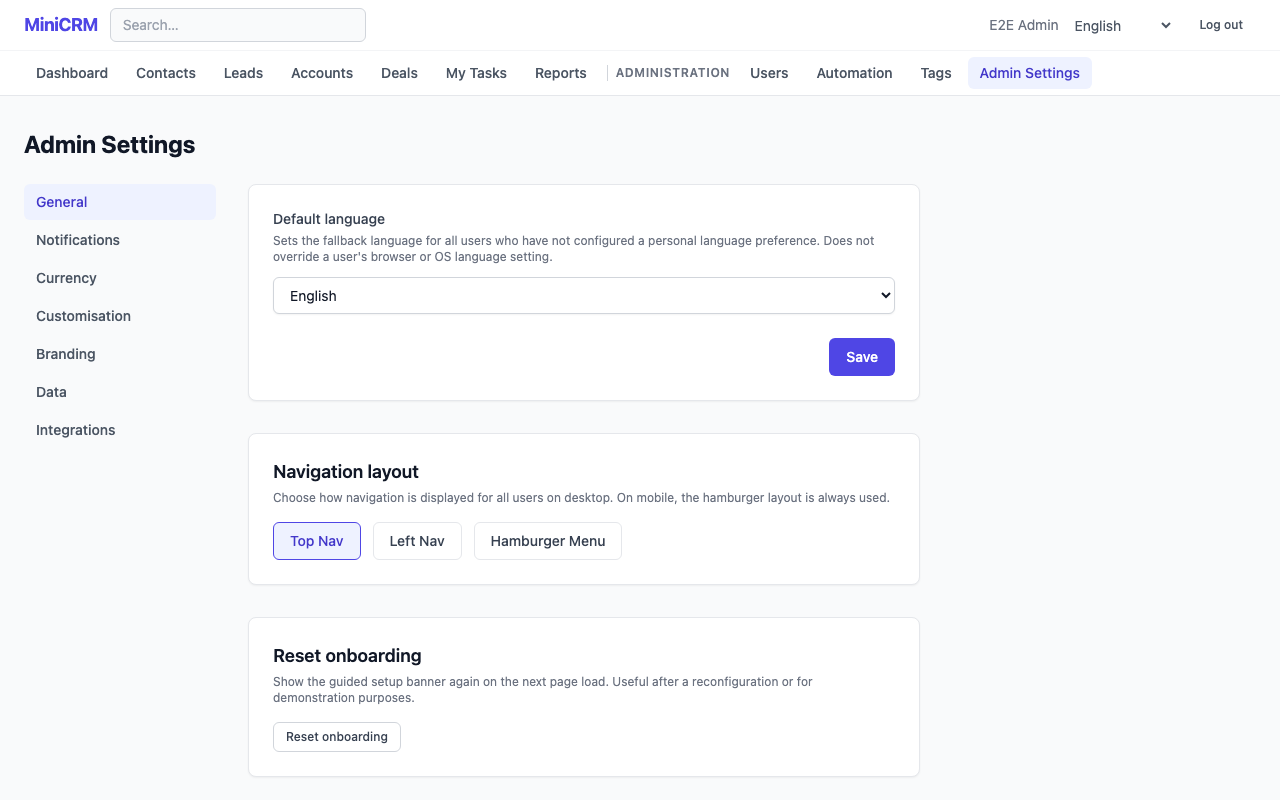
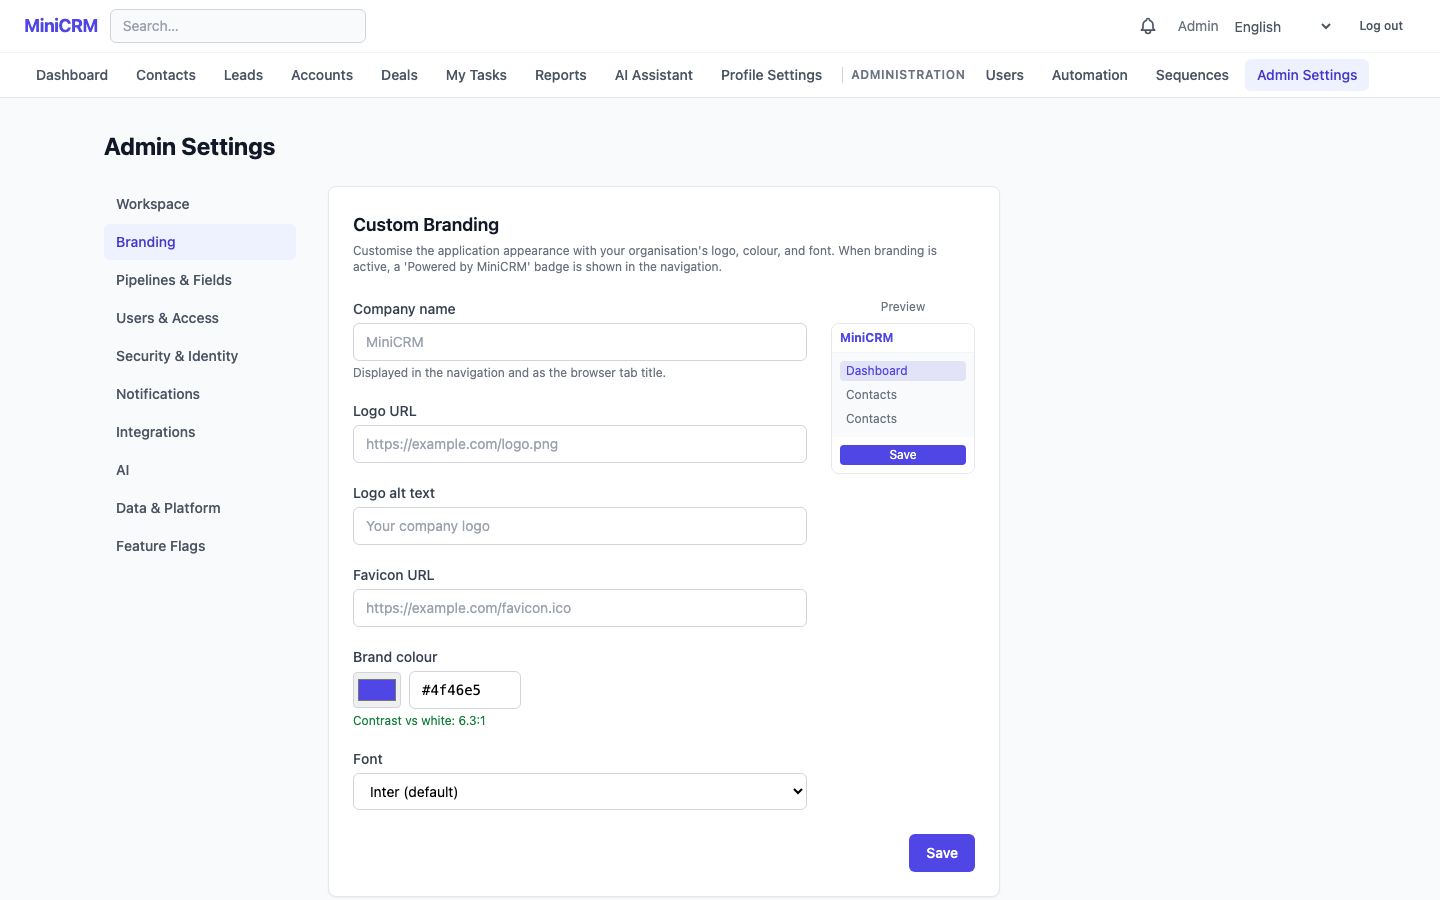
chore(screenshot): capture what the captions describe (MINCRM-724)
Every image in docs/screenshots/ dated from the seed commit, and three were capturing
the wrong thing. Regenerated against the current UI, which is the ticket's first
acceptance criterion.

Two routes were wrong. `/reports/win-loss` only redirects to `/reports?view=win-loss`,
and networkidle settles before a client-side redirect commits; the capture now targets
the destination. `/admin/settings` falls back to the workspace tab, so the branding
capture its caption describes needs `?tab=branding`.

Two captures were producing images of the wrong page entirely, and neither was
noticed because nobody had looked at them. `03-contact-detail.png` was the contacts
*list* — the click navigated but the shot fired before the detail page committed. And
`06-deals-list.png` was the word "Loading deals…" on an empty card, because the view
toggle refetches and networkidle settled first. Both now wait for a locator that only
exists on the intended surface.

The deals capture was also order-dependent: the toggle flips a mode persisted in
sessionStorage, so clicking it blind assumed the previous capture left the board view
behind. It now sets the entry state explicitly.

Three captions promised content their images do not show — a pipeline value the
multi-currency demo data renders as "values not summed", a notes editor and activity
timeline below the fold, and a branding page that is one tab of ten. Rewritten to
describe the images, which is what MINCRM-724 asks for.
[…]

diff --git a/scripts/screenshot.ts b/scripts/screenshot.ts
@@ -22,6 +22,8 @@ import path from 'node:path';
 // scripts/ sits one level below the repo root, so OUTPUT_DIR resolves to docs/screenshots/
 const OUTPUT_DIR = path.join(process.cwd(), 'docs', 'screenshots');
 
+const NAVIGATION_TIMEOUT_MS = 15_000;
+
 const BASE_URL = process.env['E2E_BASE_URL'] ?? 'http://localhost:5173';
 const ADMIN_EMAIL = process.env['E2E_ADMIN_EMAIL'] ?? 'admin@example.com';
 const ADMIN_PASSWORD = process.env['E2E_ADMIN_PASSWORD'];
@@ -56,7 +58,9 @@ async function main(): Promise<void> {
 
   const browser = await chromium.launch({ headless: true });
   const context = await browser.newContext({
-    viewport: { width: 1280, height: 800 },
+    // 1280 cuts an admin's last nav items off mid-word; 1440 fits the full row. The
+    // deals board still scrolls sideways at any width — that is the board, not clipping.
+    viewport: { width: 1440, height: 900 },
   });
   const page = await context.newPage();
 
@@ -70,20 +74,31 @@ async function main(): Promise<void> {
     await page.getByRole('button', { name: /sign in|log in|login/i }).click();
 
     try {
-      await page.waitForURL((url) => new URL(url).pathname !== '/login', { timeout: 15_000 });
+      await page.waitForURL((url) => new URL(url).pathname !== '/login', {
+        timeout: NAVIGATION_TIMEOUT_MS,
+      });
     } catch {
       console.error(
-        '[screenshot] Login failed — page did not redirect away from /login within 15 s.\n' +
+        `[screenshot] Login failed — no redirect away from /login within ${NAVIGATION_TIMEOUT_MS / 1000} s.\n` +
           '  Check E2E_ADMIN_EMAIL and E2E_ADMIN_PASSWORD.',
       );
       await browser.close();
       process.exit(1);
     }
 
-    // Helper: navigate, wait for network idle, save screenshot.
-    async function capture(filename: string, route: string): Promise<void> {
-      await page.goto(`${BASE_URL}${route}`);
+    /**
+     * @param settle - Runs after navigation, before the shot. networkidle settles before
+     *   a client-side transition commits and before a refetch paints, so any capture
+     *   needing a committed view has to say how to recognise it.
+     */
+    async function capture(
+      filename: string,
+      entryRoute: string,
+      settle?: () => Promise<unknown>,
+    ): Promise<void> {
+      await page.goto(`${BASE_URL}${entryRoute}`);
       await page.waitForLoadState('networkidle');
+      if (settle) await settle();
       const filePath = path.join(OUTPUT_DIR, filename);
       await page.screenshot({ path: filePath, fullPage: false });
       saved.push(filePath);
@@ -96,16 +111,14 @@ async function main(): Promise<void> {
     await capture('02-contacts.png', '/contacts');
 
     // 03 — First contact detail (find link from list, do not hardcode UUID)
-    await page.goto(`${BASE_URL}/contacts`);
-    await page.waitForLoadState('networkidle');
-    const firstContactLink = page.locator('a[data-testid^="contact-link-"]').first();
-    await firstContactLink.click();
-    await page.waitForLoadState('networkidle');
-    {
-      const filePath = path.join(OUTPUT_DIR, '03-contact-detail.png');
-      await page.screenshot({ path: filePath, fullPage: false });
-      saved.push(filePath);
-    }
+    await capture('03-contact-detail.png', '/contacts', async () => {
+      await page.locator('a[data-testid^="contact-link-"]').first().click();
+      await page.waitForURL((url) => /^\/contacts\/[^/]+$/.test(new URL(url).pathname), {
+        timeout: NAVIGATION_TIMEOUT_MS,
+      });
+      await page.getByTestId('contact-name').waitFor({ state: 'visible' });
+      await page.waitForLoadState('networkidle');
+    });
 
     // 04 — Accounts list
     await capture('04-accounts.png', '/accounts');
@@ -113,24 +126,15 @@ async function main(): Promise<void> {
     // 05 — Deals pipeline board
     await capture('05-deals-board.png', '/deals');
 
-    // 06 — Deals list view (toggle from board view)
-    await page.goto(`${BASE_URL}/deals`);
-    await page.waitForLoadState('networkidle');
-    {
-      const toggle = page.getByTestId('deals-view-toggle');
-      const toggleExists = await toggle.count();
-      if (toggleExists > 0) {
-        await toggle.click();
-        await page.waitForLoadState('networkidle');
-      } else {
-        console.warn(
-          '[screenshot] deals-view-toggle not found — capturing board view as 06-deals-list.png',
-        );
-      }
-      const filePath = path.join(OUTPUT_DIR, '06-deals-list.png');
-      await page.screenshot({ path: filePath, fullPage: false });
-      saved.push(filePath);
-    }
+    // 06 — Deals list view. The toggle flips a mode persisted in sessionStorage, so
+    // clicking it blind depends on which view the previous capture left behind.
+    await page.evaluate(() => sessionStorage.setItem('deals.viewMode', 'board'));
+    await capture('06-deals-list.png', '/deals', async () => {
+      await page.getByTestId('deals-view-toggle').click();
+      // The toggle refetches; without waiting on a row the shot is the loading state.
+      await page.locator('tbody tr').first().waitFor({ state: 'visible' });
+      await page.waitForLoadState('networkidle');
+    });
 
     // 07 — Leads list
     await capture('07-leads.png', '/leads');
@@ -138,11 +142,11 @@ async function main(): Promise<void> {
     // 08 — Activities page
     await capture('08-activities.png', '/activities');
 
-    // 09 — Win/loss report
-    await capture('09-win-loss-report.png', '/reports/win-loss');
+    // 09 — /reports/win-loss only redirects here, so target the destination directly.
+    await capture('09-win-loss-report.png', '/reports?view=win-loss');
 
-    // 10 — Admin settings
-    await capture('10-admin-settings.png', '/admin/settings');
+    // 10 — The settings page defaults to the workspace tab without ?tab=.
+    await capture('10-admin-settings.png', '/admin/settings?tab=branding');
   } catch (err) {
     await browser.close();
     console.error('[screenshot] Unexpected error:', err instanceof Error ? err.message : err);

diff --git a/README.md b/README.md
@@ -70,7 +70,7 @@ npm run seed:demo
 
 ### Dashboard
 
-![MiniCRM dashboard showing pipeline value, deal counts by stage, and overdue task indicators](docs/screenshots/01-dashboard.png)
+![MiniCRM dashboard showing overdue task and open deal counts, a converted pipeline total, and a pipeline-by-stage table. Deals span several currencies, so the per-currency cards say so rather than summing across them](docs/screenshots/01-dashboard.png)
 
 ### Pipeline Board
 
@@ -86,11 +86,11 @@ npm run seed:demo
 
 ### Contact Detail
 
-![Contact detail page showing rich notes editor, optimistic-lock version indicator, and activity timeline](docs/screenshots/03-contact-detail.png)
+![Contact detail page with the record's fields, its linked account, and the Send Email and Merge actions, above the tags and activity sections](docs/screenshots/03-contact-detail.png)
 
 ### Admin Settings
 
-![Admin Settings page with custom branding section — logo upload, brand color, font, and powered-by badge controls](docs/screenshots/10-admin-settings.png)
+![The Branding tab of Admin Settings — one of ten tabs down the left — with company name, logo, favicon, brand color, and font controls beside a live preview](docs/screenshots/10-admin-settings.png)
 
 ## Tech Stack
 
